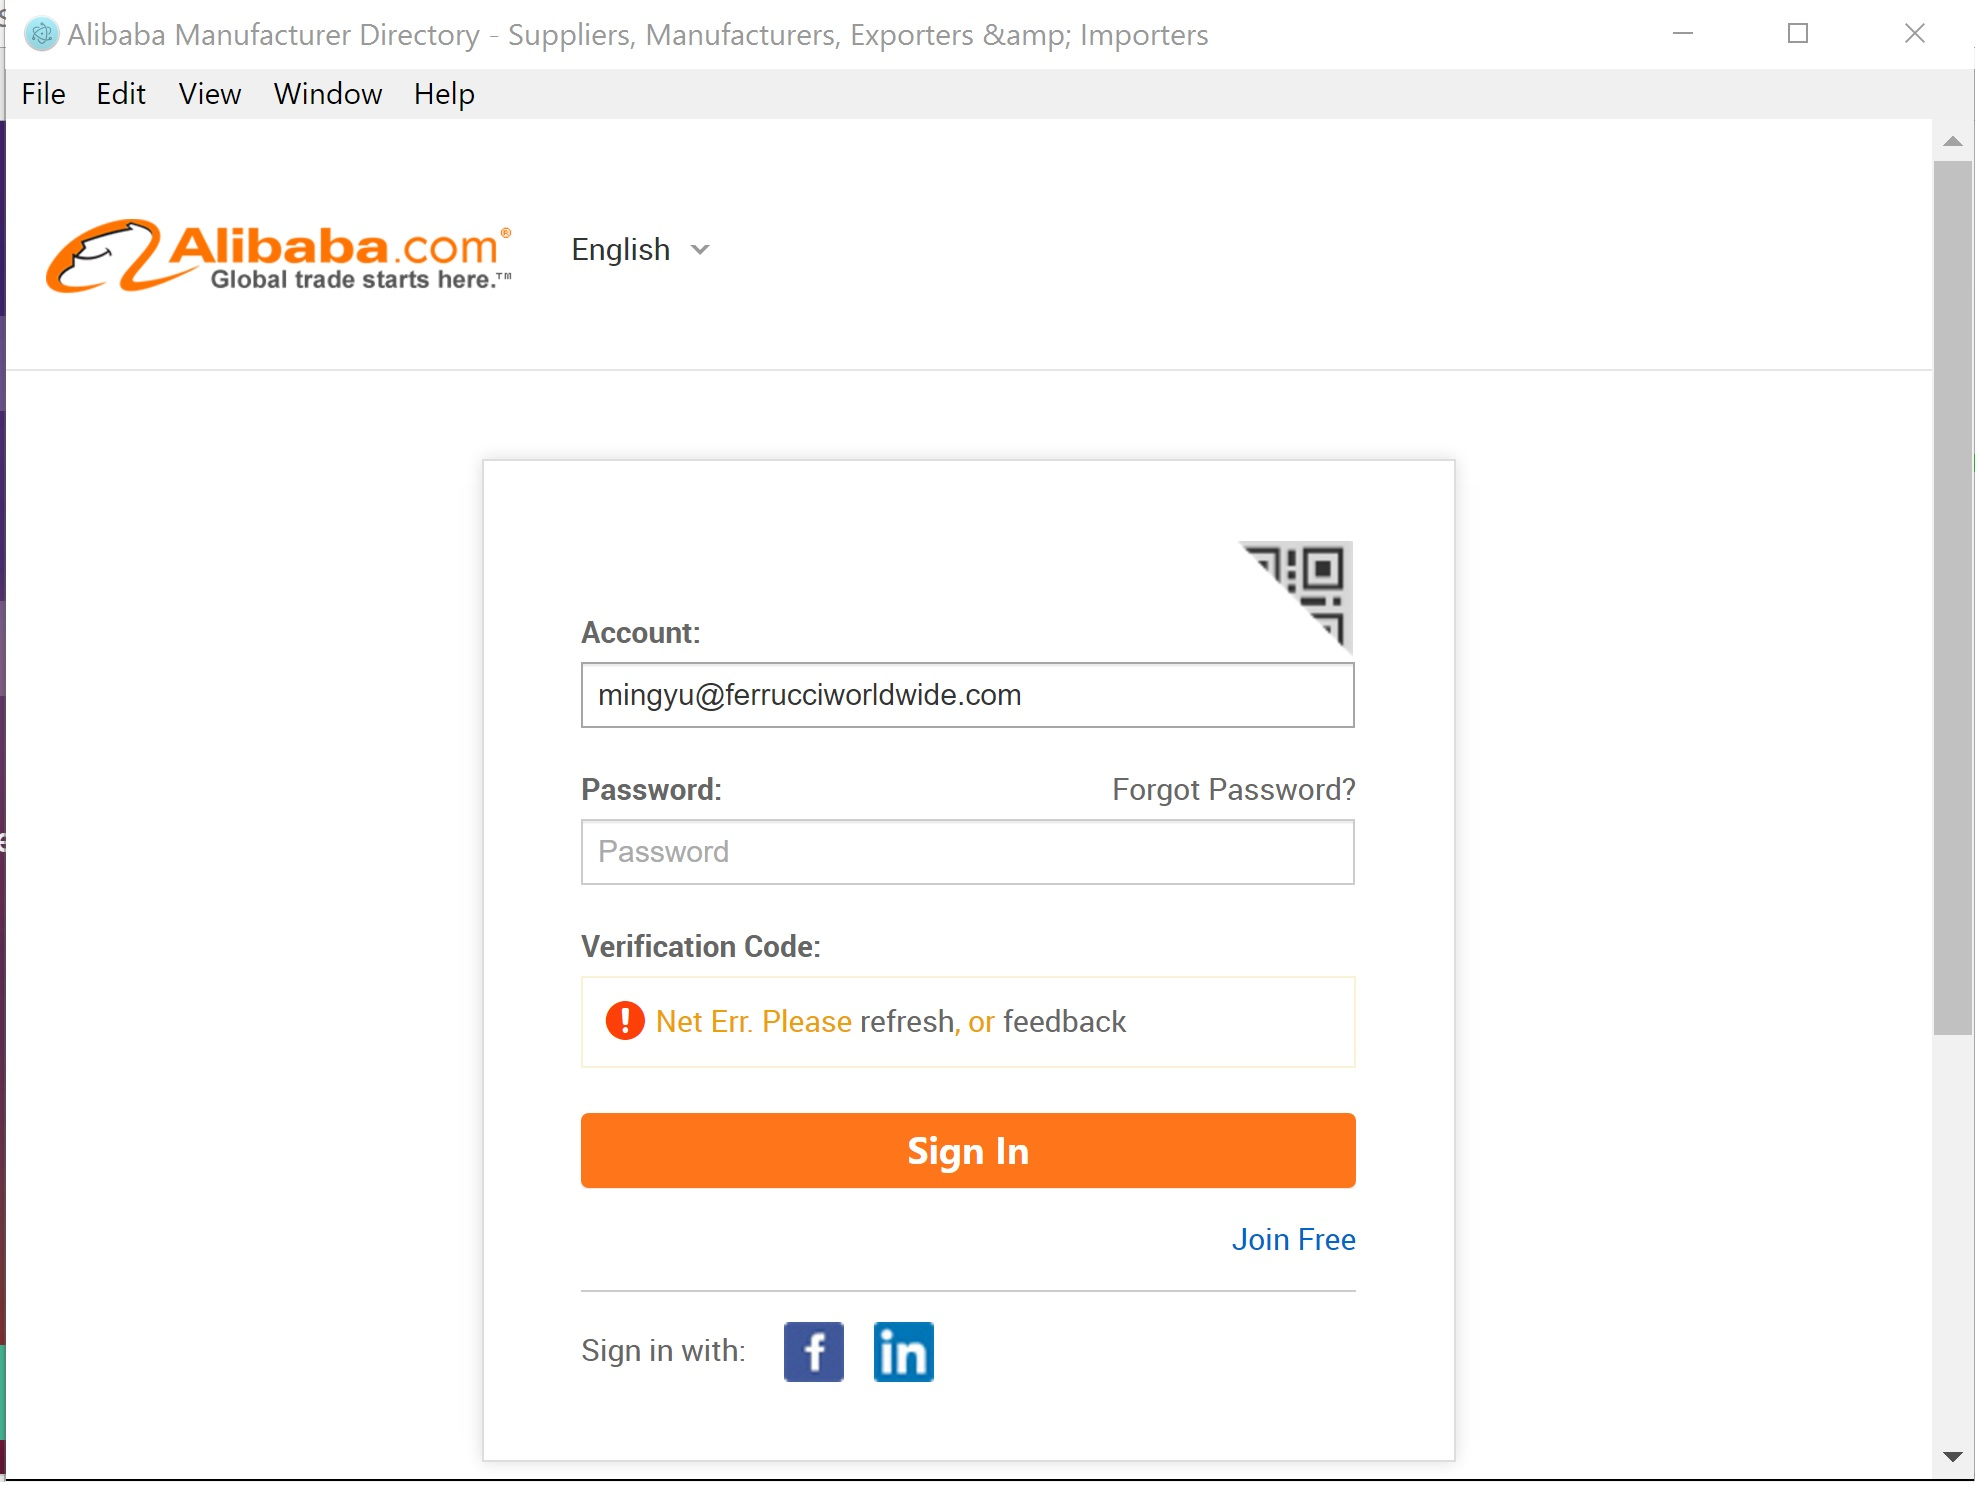
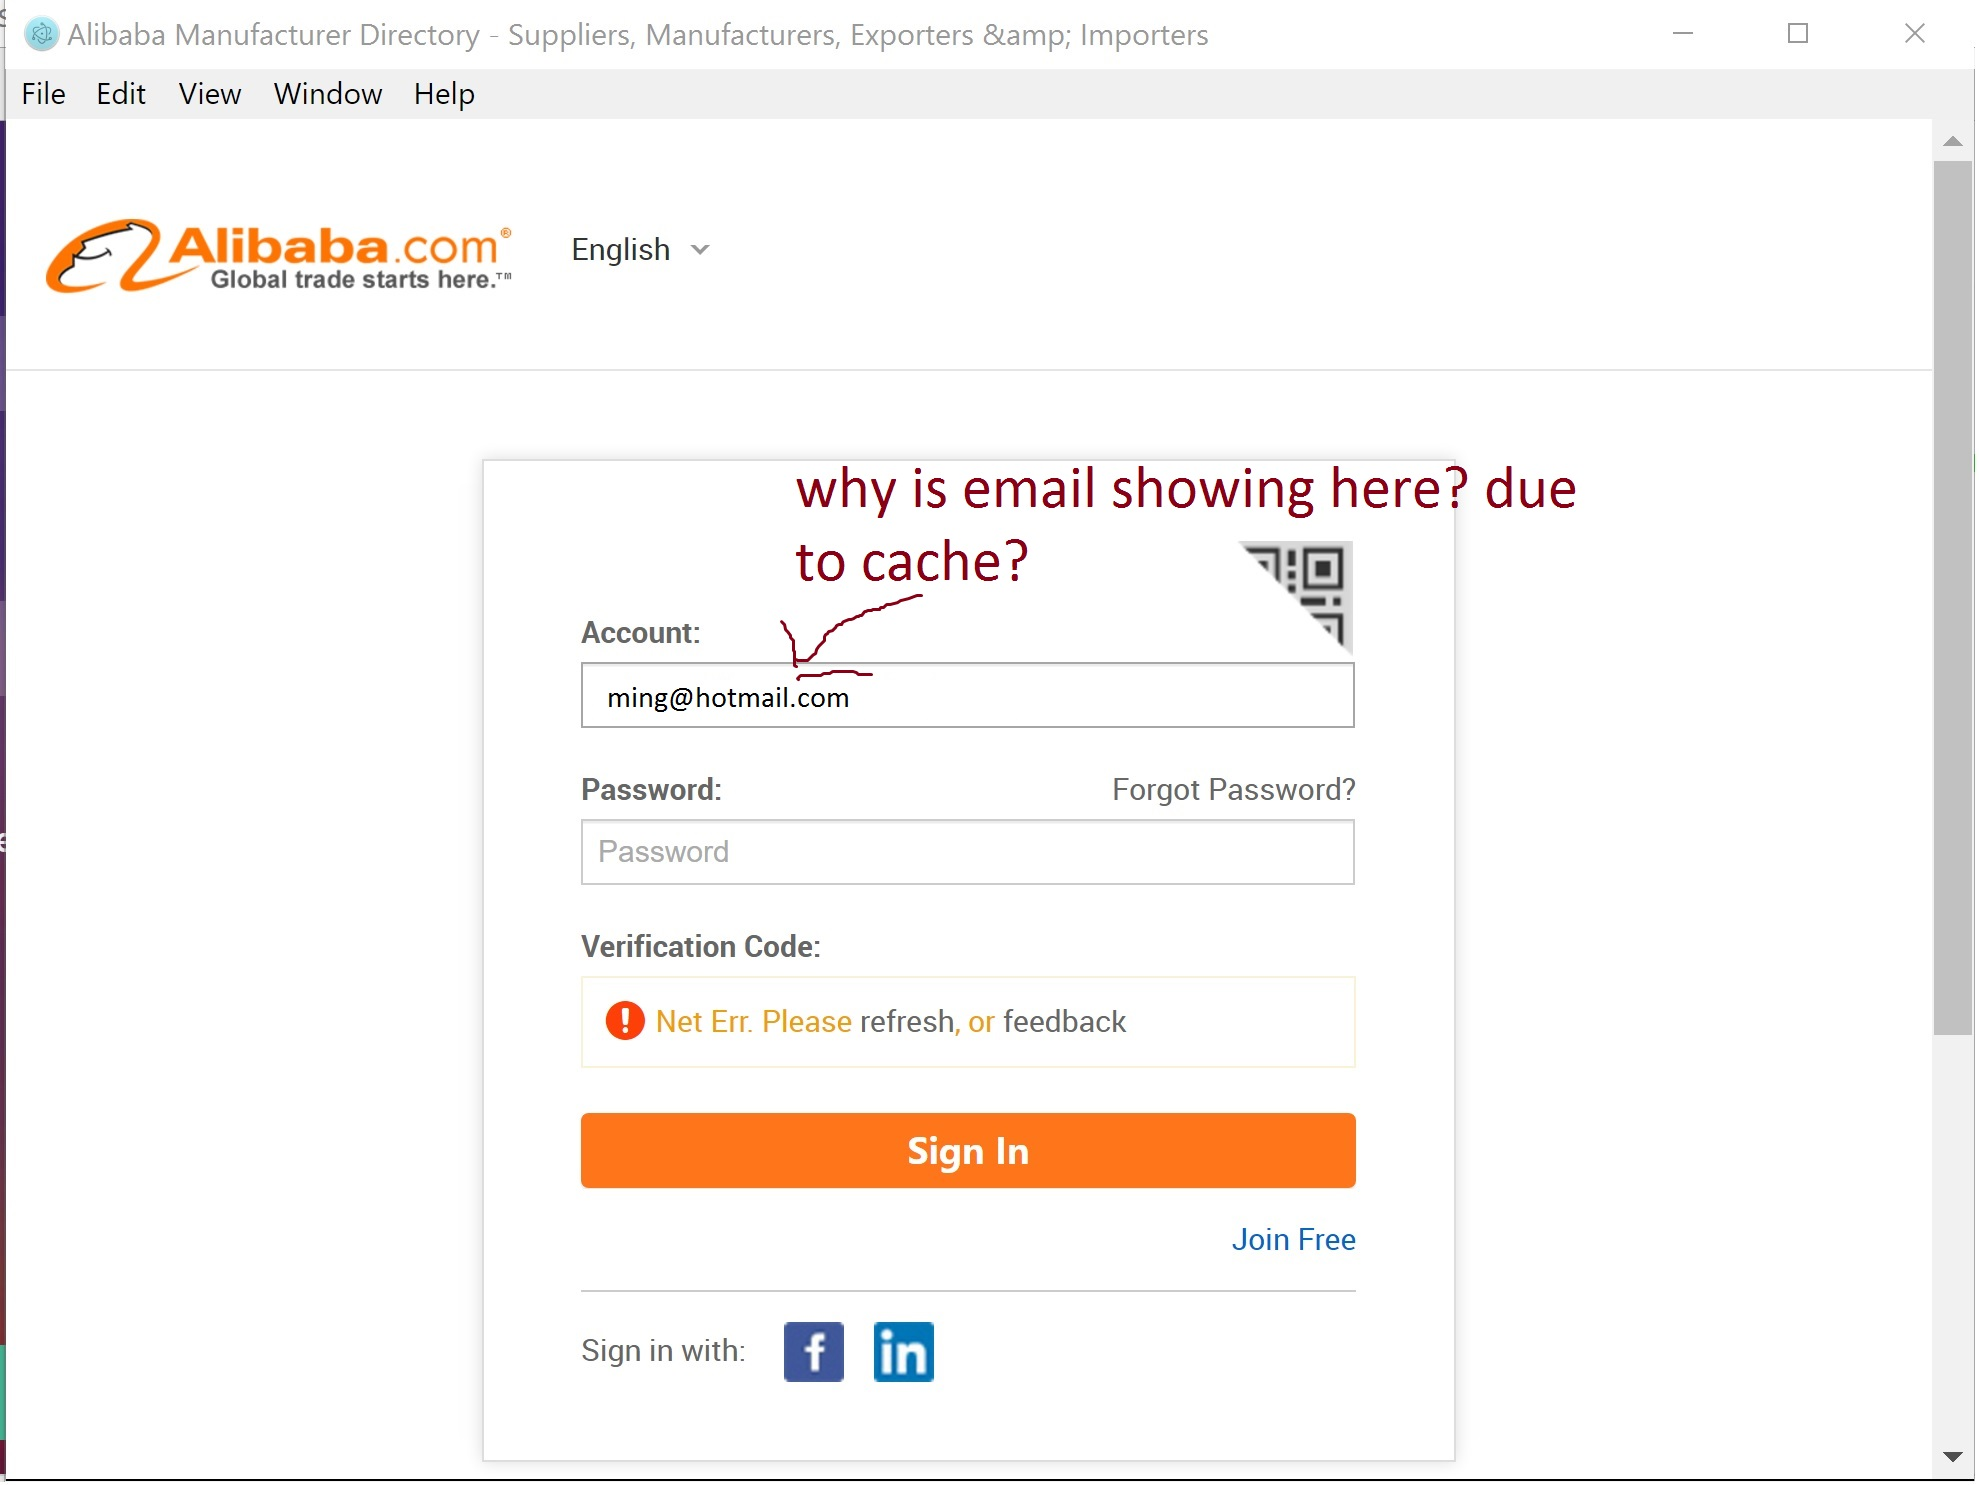
Update Readme

Changed region(s): [[0.4007, 0.3098, 0.8014, 0.3407], [0.3082, 0.4337, 0.524, 0.4956], [0.4007, 0.3717, 0.524, 0.4027]]

diff --git a/README.md b/README.md
@@ -5,10 +5,12 @@
 ## Issues
 1) clearCache() causes electron to run , but it leaves a blank white screen <br />
 2) The site seems to be providing unpredictable responses. Currently, it fails at `.click('.ui-searchbar-submit')`.<br />
- it will take me to the login screen for no apparent reason. See image below<br />
+ it will take me to the login screen for no apparent reason. See image below. Kindly note my email is recorded in browser. Due to caching? <br />
  ![Screenshot](loginpage.jpg)
 
 ## Attempts to fix
 1) I have tried using Proxy IP Rotation. The proxy works, but seems to no effect <br />
-2) Using clearCahce() but with issue above <br />
-2) Using custom useragent.  <br />
+2) Using clearCache() but with issue above(1) <br />
+3) Using custom useragent.  <br />
+</br />
+4) Is it possible to simulate mouse movements. Lack of mosuemovements could be a way siteadmin is filtering out bots from Humans??
